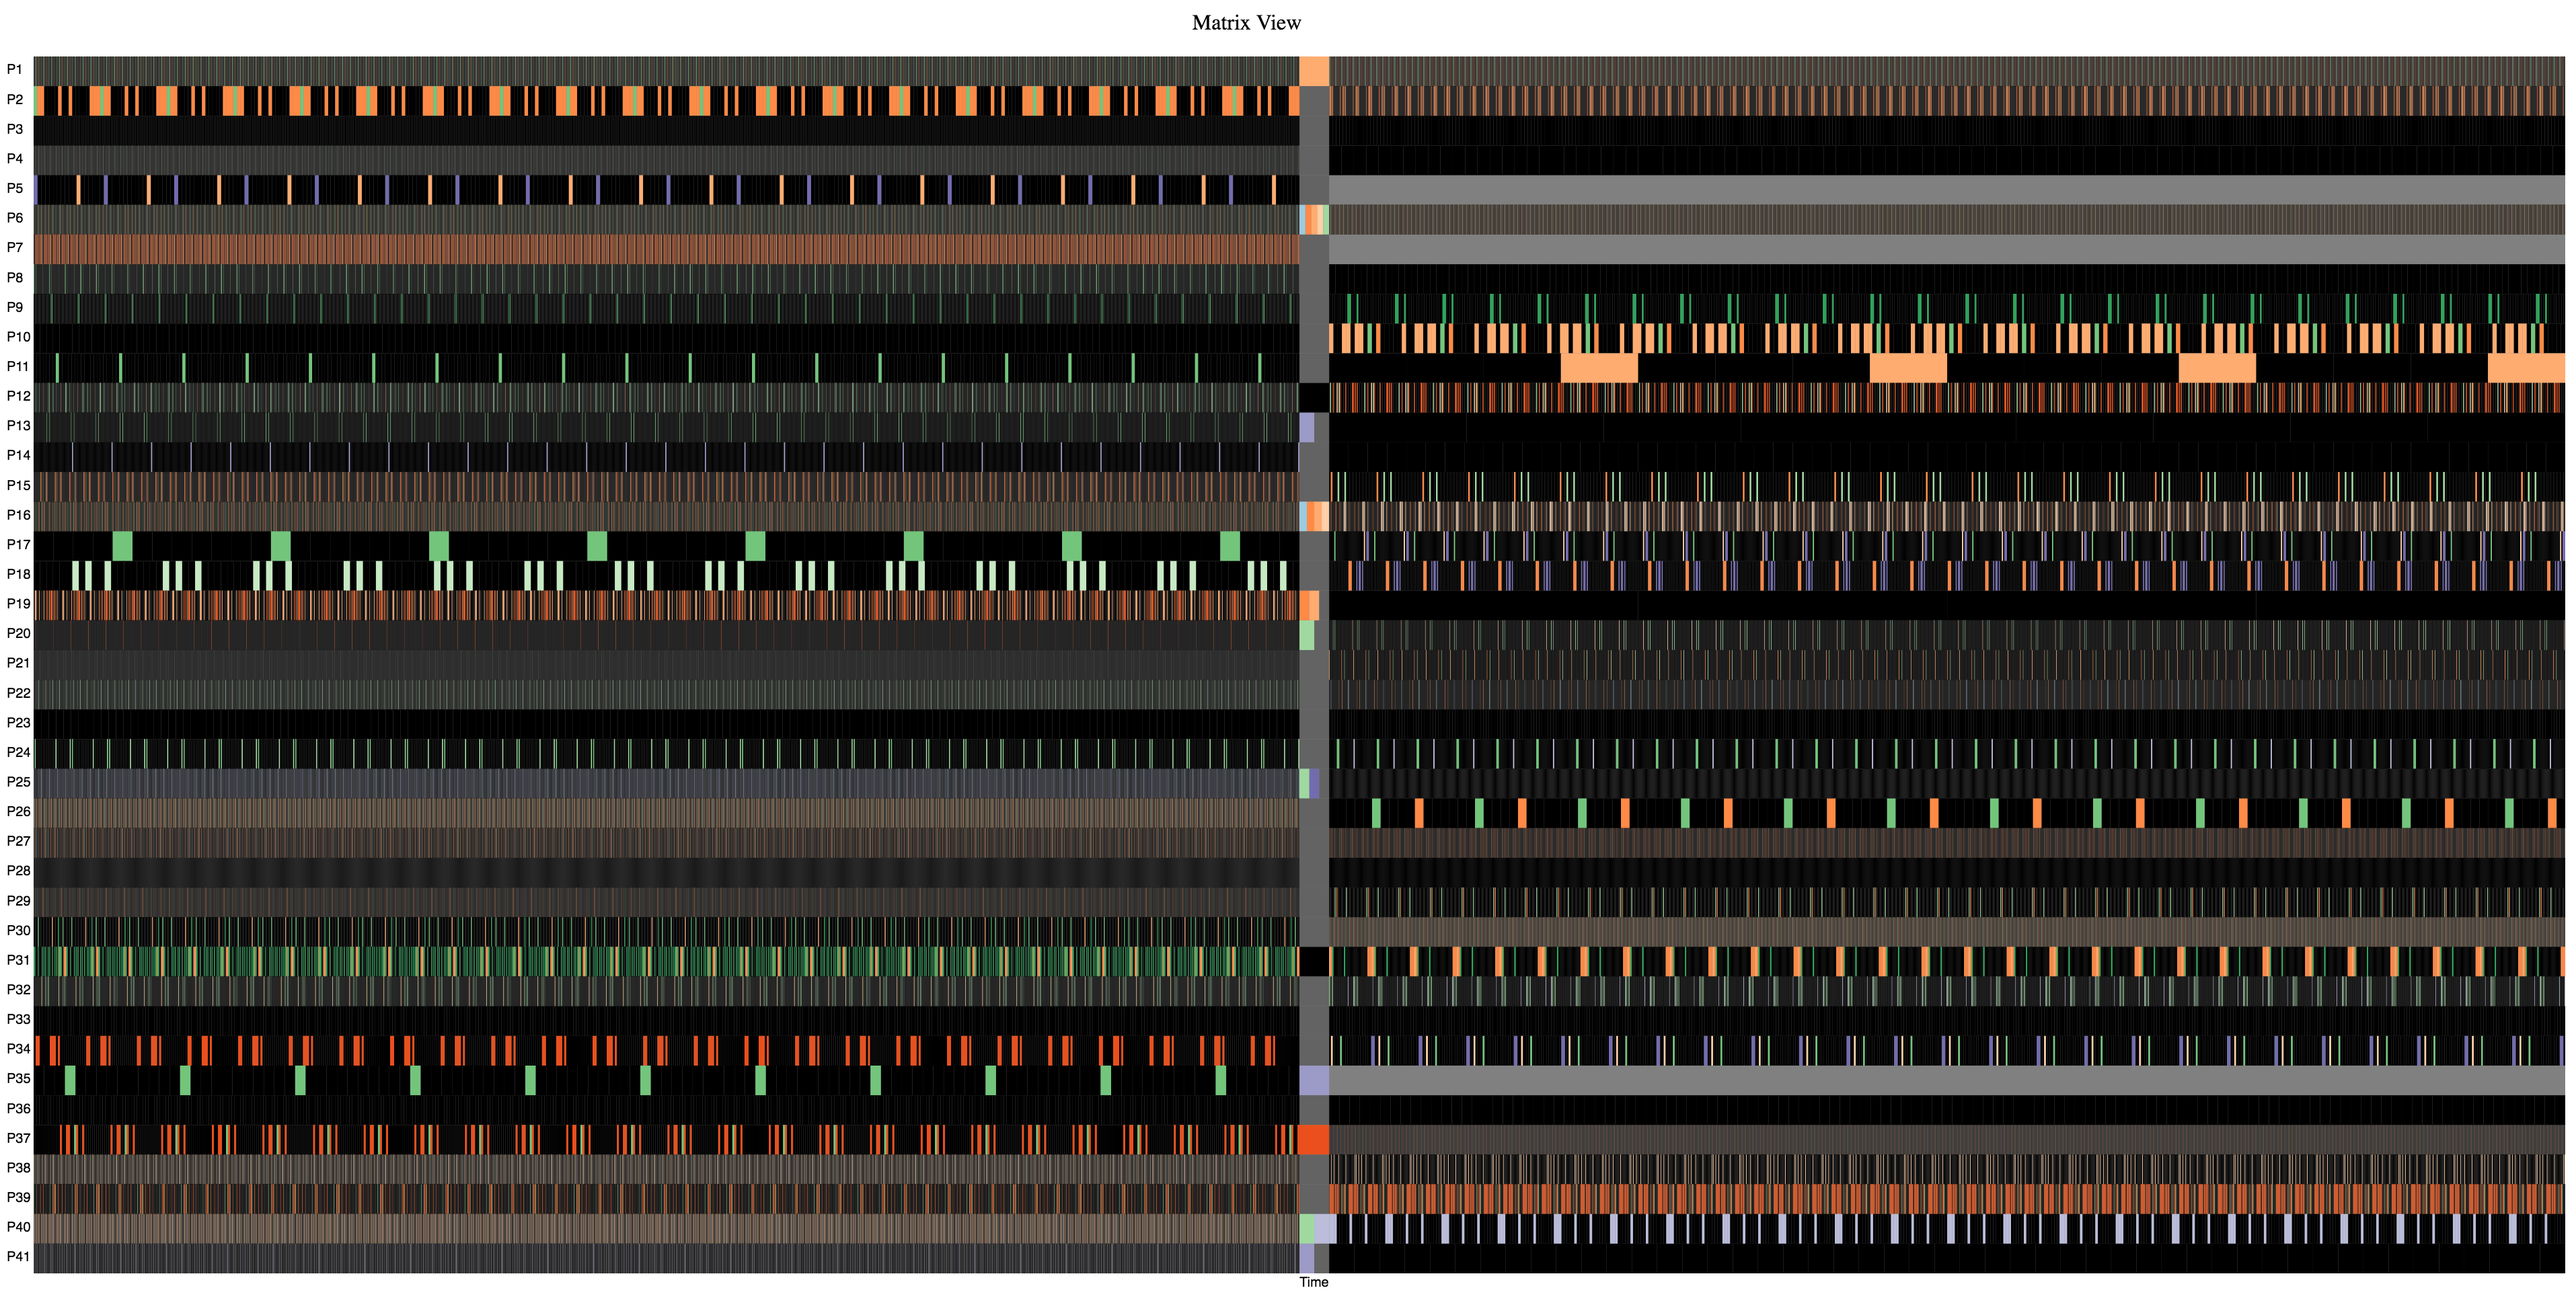
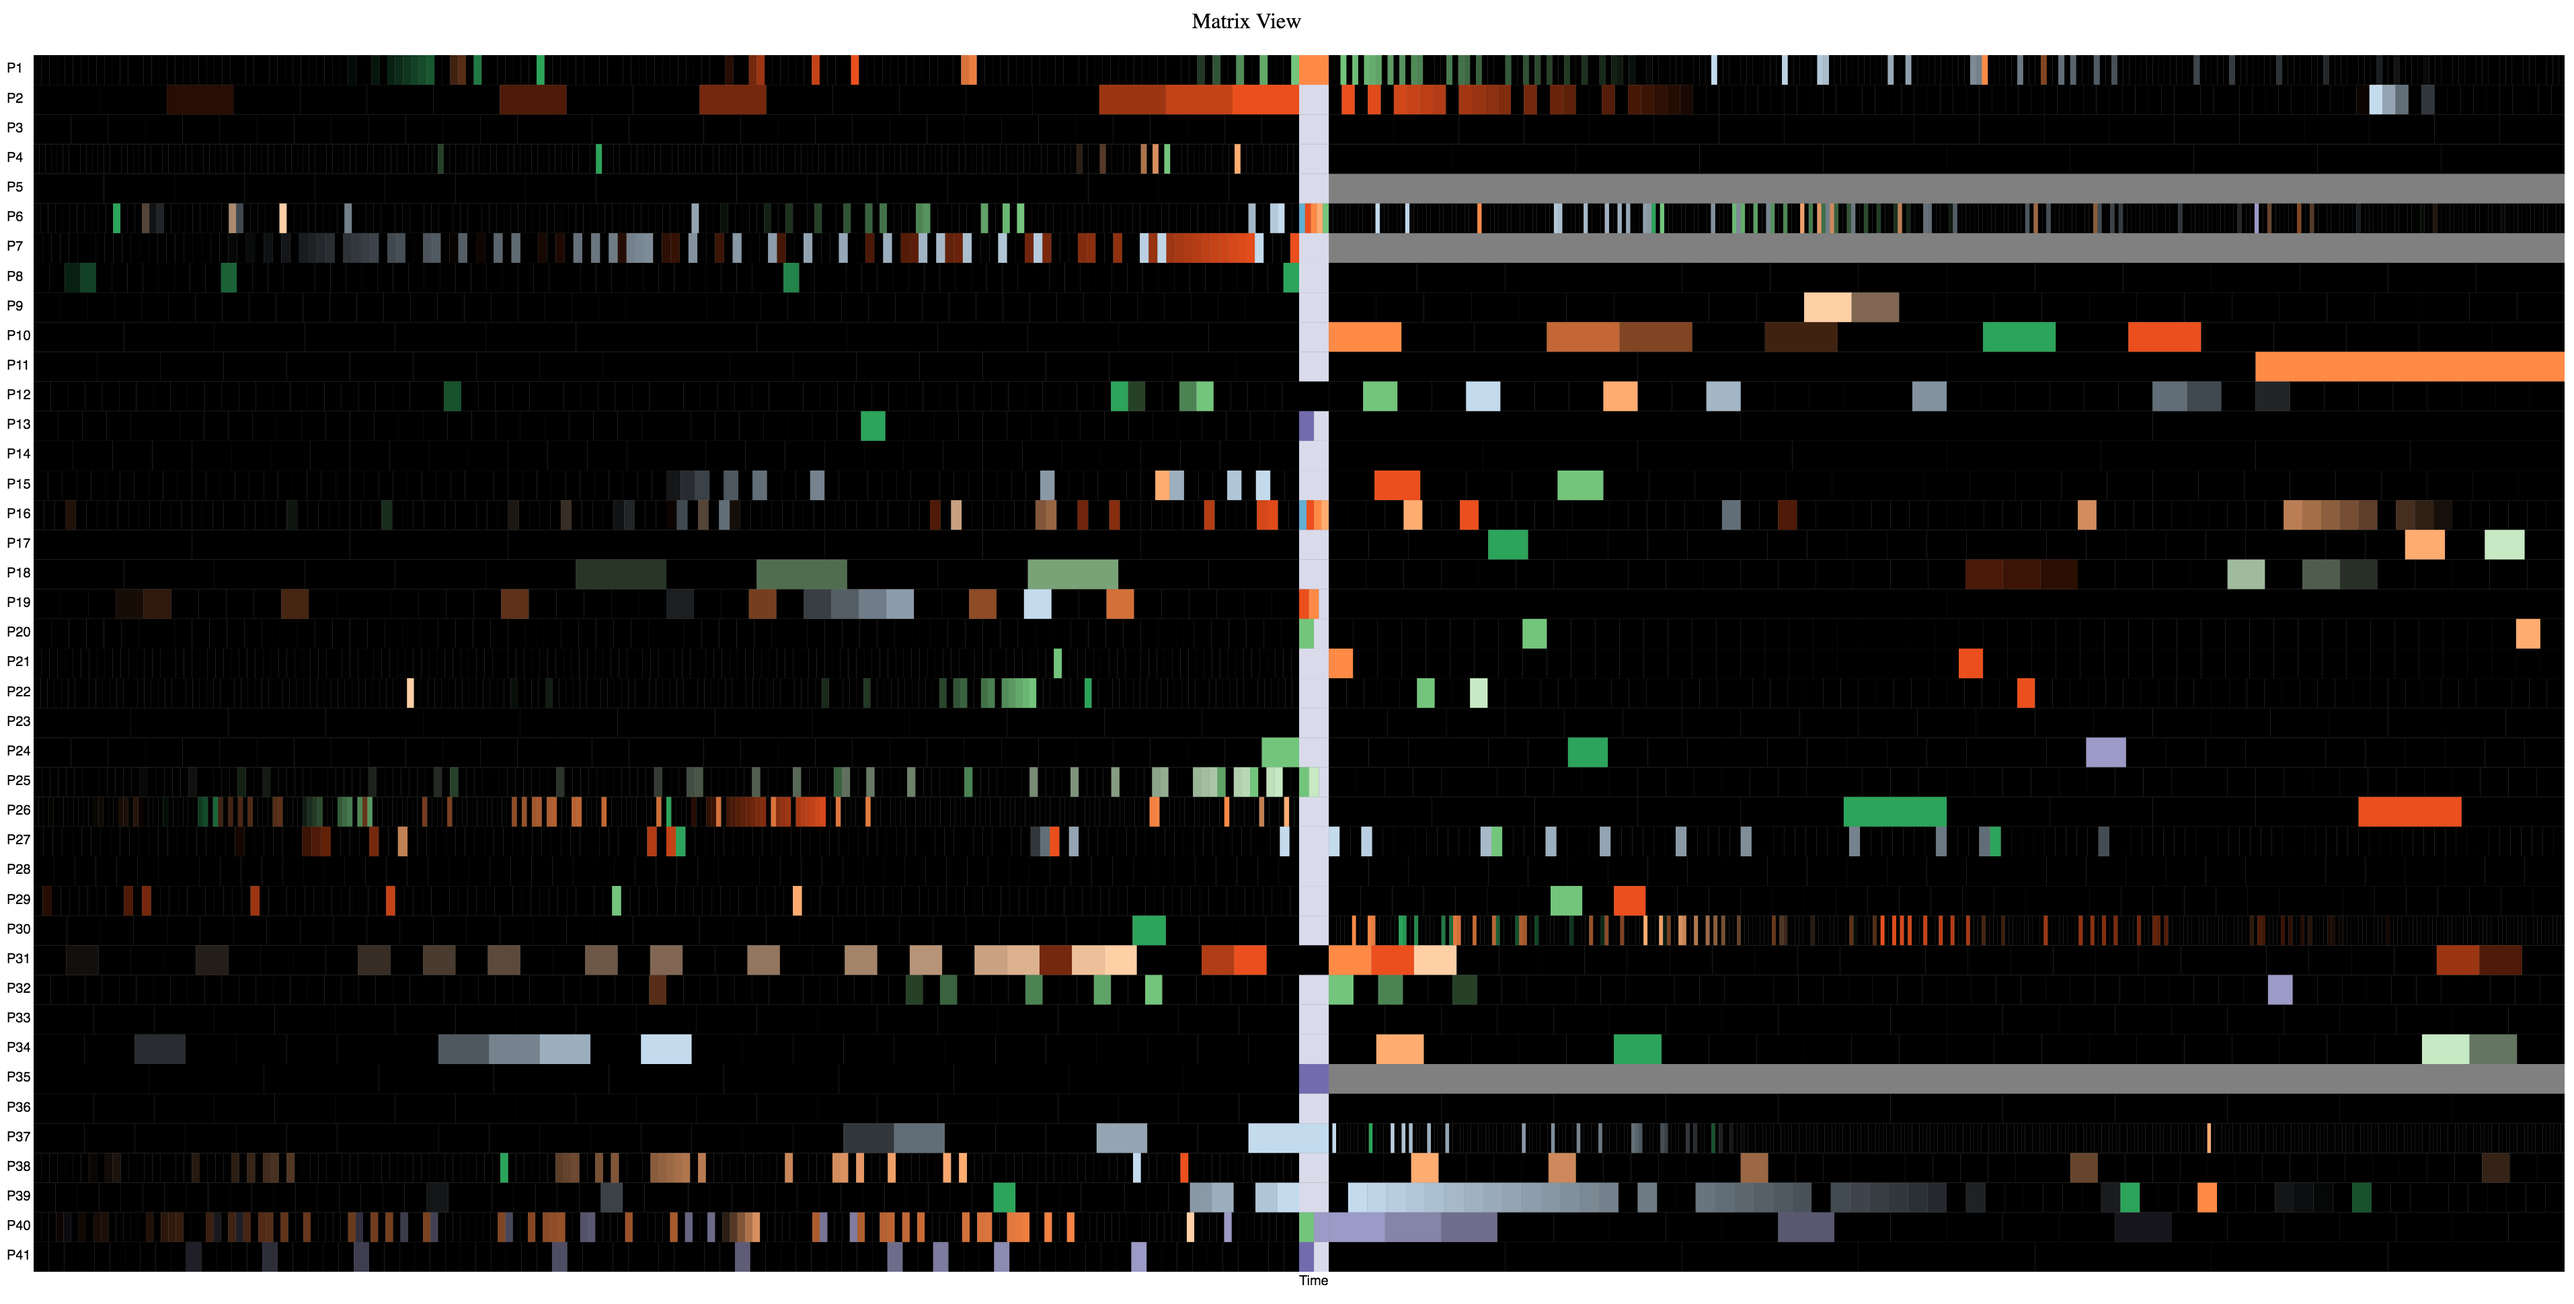
fix display error

diff --git a/hw4/helper.js b/hw4/helper.js
@@ -15,7 +15,7 @@ function Drawcategory(node, cellWidth,cellHeight,XPos,categoryColor,categoryData
                     if (categoryData[i] == -1 || categoryData[i]==0)
                         return "#000000";
                     else
-                        return categoryColor[categoryData[i]];
+                        return categoryColor[categoryData[i]-1];
                 })
     }
     else{
@@ -28,31 +28,40 @@ function Drawcategory(node, cellWidth,cellHeight,XPos,categoryColor,categoryData
                 if (categoryData==-1|| categoryData==0)
                     return "#000000";
                 else
-                    return categoryColor[categoryData];
+                    return categoryColor[categoryData-1];
             })
     }
 }
 
 
 
-function Drawcategory(node, cellWidth,cellHeight,XPos,categoryColor,categoryData,index,categoryRank,rankMaxlist) {
-
+function Drawcategory2(node, cellWidth,cellHeight,XPos,categoryColor,categoryData,index,categoryRank,rankMaxlist,reverse) {
+    //reverse mean the color hue decreases as rank  increases
     if (categoryData instanceof Array) {
-        for (i=0;i<categoryData.length;++i)
-            node.append("rect")
-                .attr("width", cellWidth / categoryData.length)
-                .attr("height", cellHeight)
-                .attr("x", XPos + i * cellWidth / categoryData.length)
-                .attr("y", 0)
-                .attr("fill", function (d) {
+        for (i=index;i<index+1;++i)
+            for(j=0;j<categoryData[i].length;++j) {
+                category=categoryData[i][j];
+                node.append("rect")
+                    .attr("width", cellWidth / categoryData[i].length)
+                    .attr("height", cellHeight)
+                    .attr("x", XPos + j * cellWidth / categoryData[i].length)
+                    .attr("y", 0)
+                    .attr("fill", function (d) {
 
-                    if (categoryData[i] == -1 || categoryData[i]==0)
-                        return "#000000";
-                    else
-                        c=categoryColor[categoryData[i]];
+                        if (category == -1 || category == 0)
+                            return "#000000";
 
-
-                })
+                        curRank=categoryRank[i][0][j+1];
+                        c=categoryColor[category-1];
+                        var ramp;
+                        if (!reverse)
+                            ramp = d3.scaleLinear().domain([rankMaxlist[category-1], 1]).range(["#000000", c]);
+                        else
+                            ramp = d3.scaleLinear().domain([rankMaxlist[category-1], 1]).range([c,"#000000"]);
+                        c=ramp(curRank);
+                        return c;
+                    })
+            }
     }
     else{
         node.append("rect")

diff --git a/hw4/d3_p0.html b/hw4/d3_p0.html
@@ -120,7 +120,7 @@ text {
 
                         //o=d.preOrder;//[-1 or other]
                         pos=0+delta*i;
-                        Drawcategory(basenode,delta,cellWidth,pos,categoryColor,pre);
+                        Drawcategory2(basenode,delta,cellWidth,pos,categoryColor,pre,i,d.preOrder,d.preMax,false);
                     }
                     baseOffset=cellWidth;
 
@@ -132,7 +132,7 @@ text {
 
                         //o=d.preOrder;//[-1 or other]
                         pos=alignXPos+delta*i+baseOffset;
-                        Drawcategory(basenode,delta,cellWidth,pos,categoryColor,post);
+                        Drawcategory2(basenode,delta,cellWidth,pos,categoryColor,post,i,d.postOrder,d.postMax,true);
                     }
 
                 })
